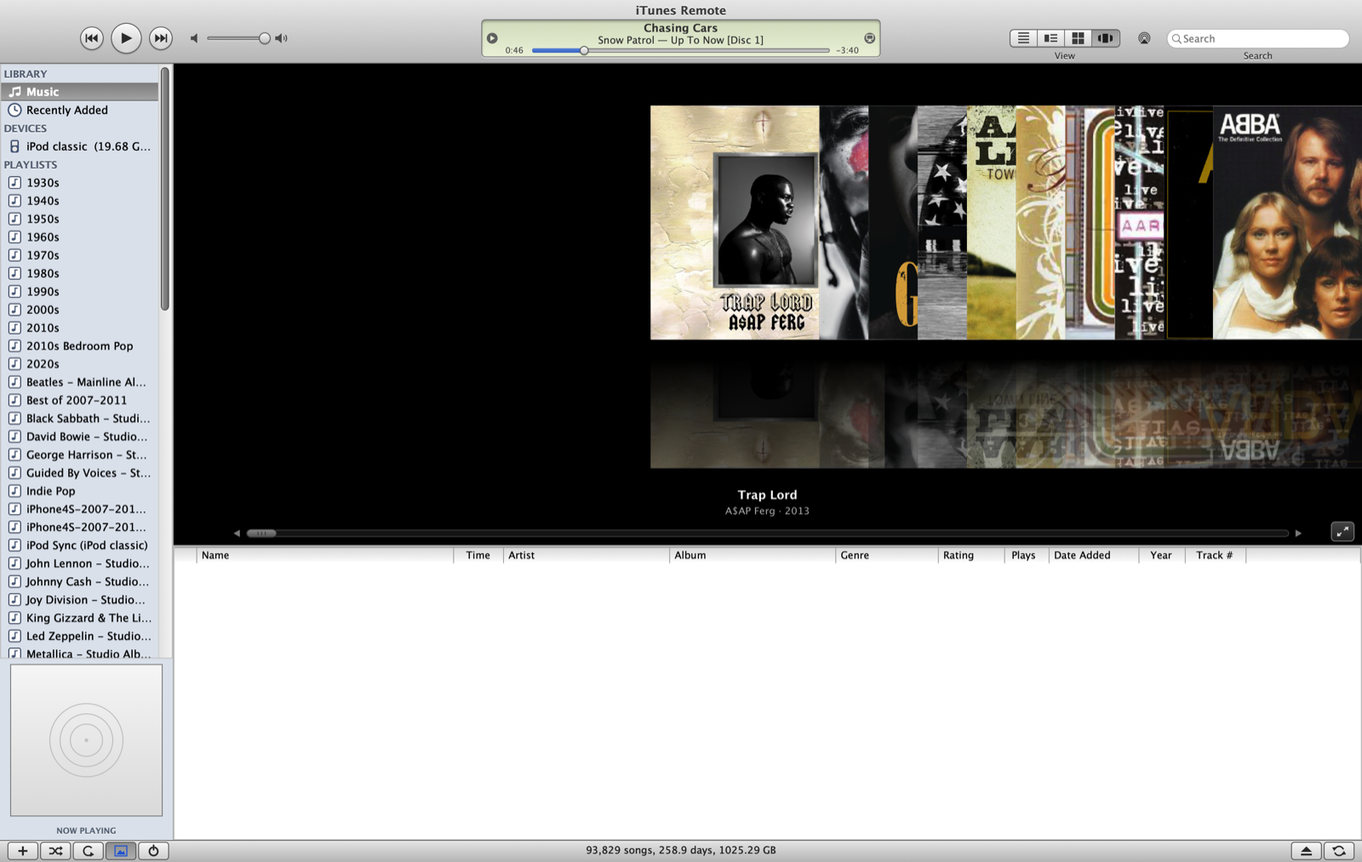
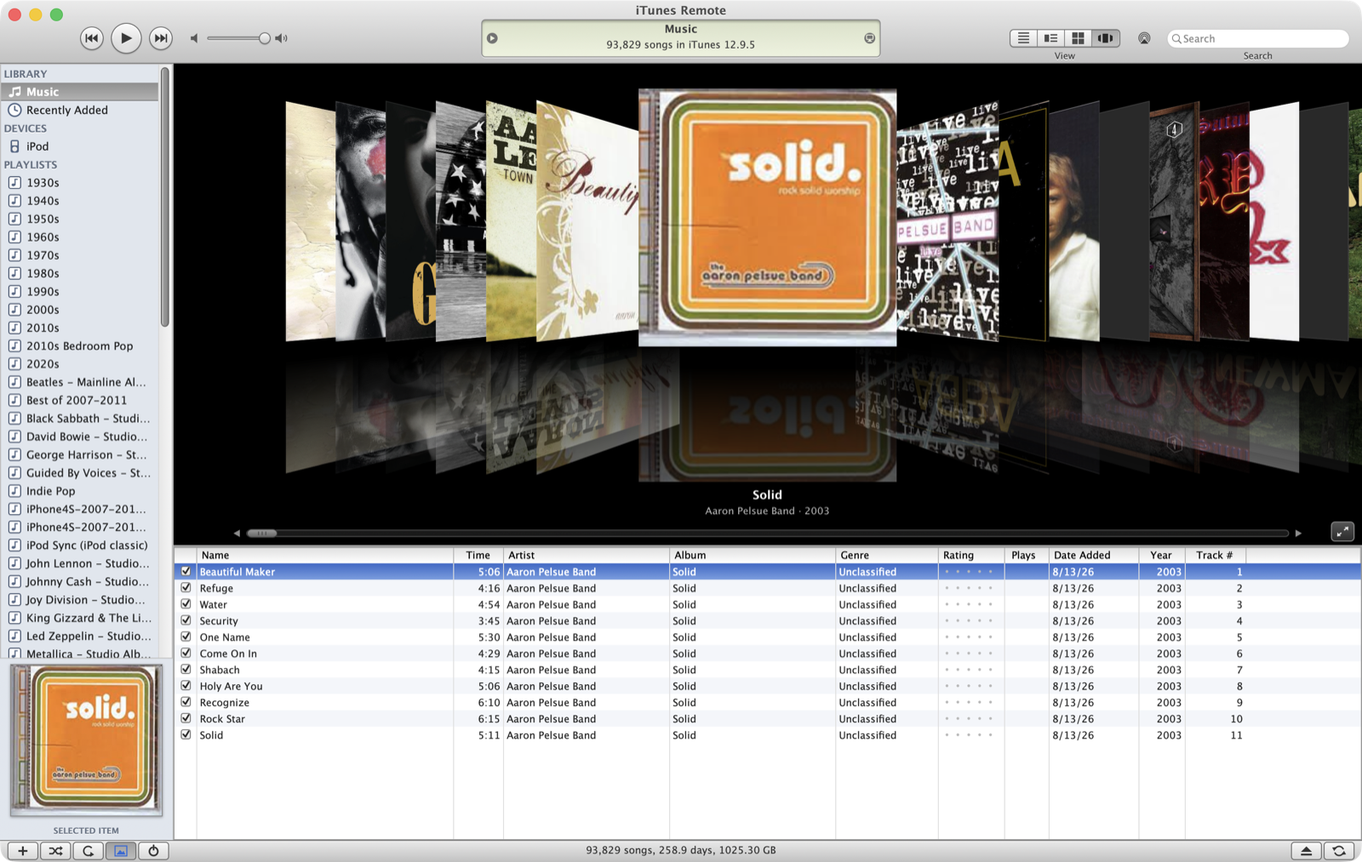
iTunes Remote: better screenshots, build cost, and a technical write-up
New Cover Flow and Grid shots (the old Cover Flow one caught the view
mid-scroll with an empty track list), plus the mini player. Adds what
the project cost to build — models, tokens per model and wall clock —
and a companion page on how it actually works.

diff --git a/itunes-remote-internals.html b/itunes-remote-internals.html
@@ -1,0 +1,221 @@
+<!DOCTYPE html>
+<html lang="en">
+<head>
+    <meta charset="UTF-8">
+    <meta name="viewport" content="width=device-width, initial-scale=1.0">
+    <meta name="referrer" content="strict-origin-when-cross-origin">
+    <title>iTunes Remote Internals — Steven Bleifer</title>
+    <meta name="description" content="How iTunes Remote actually works: one Apple Events lock, a 163 MB XML library with a write journal, an unreadable sync selection, and iTunes' real sort rules.">
+    <meta name="theme-color" content="#f3ead4">
+    <link rel="stylesheet" href="style.css">
+</head>
+<body>
+
+<header class="topbar">
+    <div class="topbar-inner">
+        <a href="index.html" class="brand">Steven Bleifer</a>
+        <button class="nav-toggle" aria-label="Menu" onclick="document.getElementById('site-nav').classList.toggle('open')">☰</button>
+        <nav class="nav" id="site-nav">
+            <a href="index.html">Home</a>
+            <a href="resume.html">Resume</a>
+            <a href="activity.html">Library</a>
+            <a href="claude-code.html">Projects</a>
+            <a href="vinyl.html">Vinyl</a>
+            <a href="displays.html">Displays</a>
+            <a href="itunes-remote.html" class="active">iTunes</a>
+            <a href="contact.html">Contact</a>
+            <a href="study/">Study</a>
+            <a href="pomodoro.html">Pomodoro</a>
+        </nav>
+    </div>
+</header>
+
+<main>
+    <div class="container">
+
+        <section class="hero">
+            <p class="eyebrow"><a href="itunes-remote.html">← iTunes Remote</a></p>
+            <h1>How it works.</h1>
+            <p class="lead">The technical version. Roughly 13,800 lines across a dependency-free Python daemon, 26 AppleScripts and a native AppKit client — all of it arranged around one hard constraint: there is exactly one way to talk to iTunes, it is slow, and only one thing can use it at a time.</p>
+            <div class="pill-row">
+                <span class="pill">4,011 lines Python</span>
+                <span class="pill">9,770 lines Swift</span>
+                <span class="pill">26 AppleScripts</span>
+                <span class="pill">No dependencies</span>
+            </div>
+        </section>
+
+        <section class="section">
+            <div class="section-header">
+                <h2>The one bottleneck everything else is shaped around</h2>
+            </div>
+            <p>iTunes 12.9.5 has no API. The only supported way in is Apple Events, which in practice means spawning <code>osascript</code> on a 2012 MacBook Pro. A trivial call — "what is playing?" — costs a few hundred milliseconds. A call that touches 25,000 playlist entries costs minutes.</p>
+            <p>Worse, Apple Events into a single app are not usefully concurrent. Two scripts in flight at once produce timeouts and, occasionally, half-applied writes. So every script in the daemon runs behind one lock:</p>
+<pre><i># daemon/itunes_remote/applescript.py</i>
+RS = "\x1e"   <i># record separator</i>
+US = "\x1f"   <i># field separator</i>
+
+guard = self.lock if serialize else _NoLock()</pre>
+            <p>That single lock is the most important line in the project, and nearly every performance bug traces back to it. It is why an eject that holds the lock for 60 seconds makes the whole client look frozen — not deadlocked, just queued. Sampling the client's main thread during one of those "freezes" showed it 97% idle. The fix was never in the client.</p>
+            <div class="callout warn">
+                <span class="lbl">Consequence</span>
+                <p>Any feature that polls iTunes on a timer is a tax on every other feature. A background sync-watcher I added at an 8-second interval, running for up to four hours after a sync, turned out to be a large part of why ejecting the iPod started failing with "in use by another application." Polling is never free when there is one lock.</p>
+            </div>
+        </section>
+
+        <section class="section">
+            <div class="section-header">
+                <h2>Scripts return text, not JSON</h2>
+            </div>
+            <p>AppleScript has no JSON. It also has a minefield of reserved words — <code>lines</code>, <code>kind</code>, <code>missing</code>, <code>removed</code> and <code>st</code> all blow up as variable names in ways the error message does not explain. And string-building a script with a track title in it is an injection waiting to happen when your library contains titles with quotes, backslashes and newlines.</p>
+            <p>So scripts are files, they take input through <code>on run argv</code>, and they return columnar text delimited by ASCII 30 and 31 — two characters that cannot occur in an iTunes tag. The daemon splits on them:</p>
+<pre>columns = out.split("\x1e")
+names, artists, albums, times = [c.split("\x1f") for c in columns[:4]]</pre>
+            <p>Columnar rather than row-wise on purpose: one <code>get</code> of every name, then one of every artist, is dramatically faster in AppleScript than 24,000 individual property reads. Reading the iPod's contents went from minutes to seconds on that change alone.</p>
+        </section>
+
+        <section class="section">
+            <div class="section-header">
+                <h2>Reading a 163 MB library without asking iTunes</h2>
+            </div>
+            <p>Asking iTunes for the library over Apple Events is hopeless at this size. The daemon instead parses <code>iTunes Music Library.xml</code> directly — 163 MB, 100,648 entries, 93,829 of them music tracks. That takes about a minute — 65 s on a warm run, 117 s on a cold one.</p>
+            <p>Two consequences fall out of that number. First, the parse happens in a background thread and the old library object stays live and readable until the new one is complete, then is swapped in atomically — an early bug had the library briefly vanish for concurrent readers mid-reload. Second, a minute-plus is far too long to wait after every edit, and iTunes rewrites the XML on its own schedule anyway.</p>
+            <p>So writes are journaled. A change goes to iTunes through AppleScript <em>and</em> is patched into the in-memory library immediately, with a timestamped journal entry. When a fresh parse lands, journal entries newer than the XML's own write date are replayed on top and the rest discarded:</p>
+<pre>self._journal.append((now, pid, dict(fields)))
+<i># …after a reload:</i>
+self._journal = [j for j in self._journal if j[0] &gt; new.xml_date]</pre>
+            <p>The rule throughout is that iTunes owns the data. Nothing writes to the library files on disk; every mutation goes through iTunes and the journal only mirrors what iTunes was already told.</p>
+        </section>
+
+        <section class="section">
+            <div class="section-header">
+                <h2>The selection nothing can read</h2>
+            </div>
+            <p>The hardest problem in the project has no clean solution. iTunes' iPod sync selection — which playlists, artists, albums and genres are ticked on the device pane — is stored in the binary <code>.itl</code> file. It is not exposed to AppleScript. And iTunes 12 exposes <strong>zero</strong> accessibility elements, even with <code>AXEnhancedUserInterface</code> forced on, so it cannot be read off the screen either.</p>
+            <p>Three options: guess, drive the UI, or keep your own. Guessing is wrong by construction. Driving the UI was ruled out deliberately — it breaks on any layout change and can click the wrong thing, and the one time that matters is the time it wipes a device.</p>
+            <p>So the app keeps its own selection and projects it onto a single real playlist that iTunes syncs. Four independent lists — playlists, artists, albums, genres — unioned, exactly as iTunes' own Music pane behaves. Rebuilding that playlist is chunked at 50 tracks per <code>osascript</code> run so a failure is bounded and progress is reportable.</p>
+            <div class="callout warn">
+                <span class="lbl">The near miss</span>
+                <p>Before the first real sync, an inventory of what was already on the iPod versus what the plan covered showed the plan would have removed about 70% of the device. The selection had been reconstructed from the wrong assumption about how iTunes unions ticked items. Taking the inventory cost ten minutes; not taking it would have cost a 160 GB rebuild over USB 2.</p>
+            </div>
+        </section>
+
+        <section class="section">
+            <div class="section-header">
+                <h2>Sorting exactly like iTunes</h2>
+            </div>
+            <p>"Alphabetical" is doing a lot of work in that sentence. iTunes ignores a leading article, ignores quotes and apostrophes entirely, folds accents, and sorts anything starting with a digit <em>after</em> Z rather than before A. Getting that last part right without a custom comparator is a small trick: map digit-leading strings behind a private-use codepoint, which sorts above every letter.</p>
+<pre><i># daemon/itunes_remote/library.py</i>
+_ARTICLES   = ("the ", "a ", "an ")
+_QUOTES     = "\"'‘’“”«»"
+_DIGITS_LAST = "\uf8ff"   <i># private use area, sorts after Z</i>
+
+def sort_form(text, override=None):
+    value = fold((override or text or "").strip())
+    value = _plain("".join(c for c in value if c not in _QUOTES))
+    for article in _ARTICLES:
+        if value.startswith(article) and len(value) &gt; len(article):
+            value = _plain(value[len(article):]); break
+    if value and value[0].isdigit():
+        return _DIGITS_LAST + value
+    return value</pre>
+            <p><code>_plain</code> does NFKD normalisation and drops combining marks, so <em>Motörhead</em> sorts as <em>Motorhead</em>. Sort overrides matter too: iTunes stores a per-track "sort artist" that wins over the display name, which is how <em>The Beatles</em> files under B and a soundtrack credited to twelve people files under the album artist.</p>
+        </section>
+
+        <section class="section">
+            <div class="section-header">
+                <h2>Three numbers, all of them true</h2>
+            </div>
+            <p>The same library reports three different song counts, and the interesting part is that none of them is a bug.</p>
+            <div class="table-wrap">
+            <table class="simple-table">
+                <thead><tr><th>Count</th><th>What it is</th></tr></thead>
+                <tbody>
+                <tr><td>24,153</td><td>Files actually on the iPod. This is the one to trust.</td></tr>
+                <tr><td>24,184</td><td>iTunes' own heading, which folds byte-identical files into one.</td></tr>
+                <tr><td>24,310</td><td>Library entries the plan covers — duplicates counted separately.</td></tr>
+                </tbody>
+            </table>
+            </div>
+            <p>The gap is re-downloaded purchases that exist twice in the library as separate entries pointing at identical audio, plus two files iTunes refuses to copy at all. Any "fix" that made the numbers agree would have been a lie about one of the three.</p>
+        </section>
+
+        <section class="section">
+            <div class="section-header">
+                <h2>Album art, and why the grid was slow</h2>
+            </div>
+            <p>Artwork has two very different costs. A cover already in memory, on disk, or embedded in the file itself comes back in about 30 ms. A cover that only iTunes knows about requires an AppleScript export — which takes the one lock, behind everything else.</p>
+            <p>The grid was asking for both kinds on the same connection pool as the player poll, so a handful of slow exports starved the entire client. The fix has three parts:</p>
+            <ul>
+                <li>A <code>?quick=1</code> request answers only from memory, disk or the file, and returns <strong>202 Accepted</strong> for anything that would need iTunes.</li>
+                <li>A 202 queues the cover on a priority deque that the background warmer drains first, instead of waiting for an idle moment.</li>
+                <li>The client fetches covers on a separate <code>URLSession</code> with 12 connections, so artwork can never block transport commands.</li>
+            </ul>
+            <p>Fourteen visible albums now resolve in 0.77 s total, and Cover Flow fills immediately instead of showing placeholder discs.</p>
+        </section>
+
+        <section class="section">
+            <div class="section-header">
+                <h2>Playing on the other Mac</h2>
+            </div>
+            <p>"Play on This Mac" does not use AirPlay, because iTunes 12.9.5 cannot AirPlay to a modern Mac at all — it fails with error −15022. Instead the daemon serves the file over HTTP with range support and the client decodes it locally with AVFoundation.</p>
+            <p>That creates a subtler problem. <code>play &lt;track&gt;</code> gives iTunes a one-item queue, so at the end of a song iTunes simply stops rather than advancing. There is no event for "track finished" — a deliberate stop and a finished track both report as <code>stopped</code>. The only available signal is where the playhead was on the previous poll:</p>
+<pre>guard mode == .remote, new.state == "stopped", new.track == nil,
+      let previous = lastRemote, previous.playing, previous.duration &gt; 0
+else { return false }
+return previous.position &gt;= previous.duration - 5</pre>
+            <p>Because the client steps through its own list in both modes, shuffle and repeat belong to the app rather than to iTunes. They used to be read back from iTunes, which meant they silently did nothing whenever playback was local.</p>
+        </section>
+
+        <section class="section">
+            <div class="section-header">
+                <h2>Ejecting</h2>
+            </div>
+            <p>iTunes cannot unmount an iPod while anything holds a file open on the volume, and the daemon's own device polling counted. An eject now sets a quiet window that every reader respects before the script runs:</p>
+<pre>DEVICE_QUIET_SECONDS = 30
+POD_CACHE_SECONDS = 15</pre>
+            <p>The client pauses both of its device timers over the same window and resumes them if the eject fails. A failure also reads back whatever modal dialog iTunes is showing and reports it, rather than returning a bare 502 — a headless machine raises dialogs at nobody, and that alone explained a whole class of mysterious hangs.</p>
+            <p>One holder is not ours and cannot be fixed from here: <code>diskutil</code> reports unmounts "dissented by SystemUIServer", the menu bar agent.</p>
+        </section>
+
+        <section class="section">
+            <div class="section-header">
+                <h2>Smaller things that mattered</h2>
+            </div>
+            <ul>
+                <li><strong>Version-keyed client cache.</strong> Reads are cached against the library's version counter and dropped on any write, so a stale list cannot outlive the change that invalidated it.</li>
+                <li><strong>gzip above 16 KB.</strong> JSON responses compress at level 1 only when they clear 16 KB and the client asked for it. Below that the CPU on a 2012 machine costs more than the bytes save.</li>
+                <li><strong>Recently Added.</strong> Cutting to the newest 600 albums has to happen <em>before</em> the browser filters, not after — doing it after listed all 2,904 artists and then picked albums that contained no tracks.</li>
+                <li><strong>A nullable playlist ID.</strong> A freshly created playlist has no persistent ID until iTunes rewrites the XML. Typing that field as non-optional broke playlist creation <em>and</em> every subsequent playlist decode, which is why drag-and-drop onto playlists also looked dead.</li>
+                <li><strong>The look.</strong> macOS Mojave removed subpixel antialiasing, so text in the client is slightly softer than iTunes 10 was on the same hardware. That one is not fixable.</li>
+            </ul>
+        </section>
+
+        <section class="section">
+            <div class="section-header">
+                <h2>What it cost to build</h2>
+            </div>
+            <p>The whole thing was written with <a href="claude-code.html">Claude Code</a> across two days: first commit at 10:27 pm on 2 September 2026, most recent at 5:36 pm on 3 September — <strong>about 19 hours of wall clock</strong> over 48 commits, inside session transcripts spanning 20 hours 17 minutes.</p>
+            <p>Four models did the work, across 1,079 API responses and 1,254 tool calls (994 of them shell commands). Token totals below count each response once and include cache reads, which dominate — a long agentic session re-reads a large cached context on every single turn:</p>
+            <div class="table-wrap">
+            <table class="simple-table">
+                <thead><tr><th>Model</th><th>Responses</th><th>Cache read</th><th>Cache write</th><th>Output</th><th>Total</th></tr></thead>
+                <tbody>
+                <tr><td>Opus 5</td><td>739</td><td>293,042,154</td><td>5,228,661</td><td>807,303</td><td>299,079,596</td></tr>
+                <tr><td>Fable 5.1</td><td>195</td><td>72,548,919</td><td>3,517,817</td><td>546,420</td><td>76,664,523</td></tr>
+                <tr><td>Opus 4.8</td><td>78</td><td>40,205,825</td><td>2,080,565</td><td>100,132</td><td>42,386,678</td></tr>
+                <tr><td>Opus 4.7</td><td>57</td><td>6,621,492</td><td>312,019</td><td>45,538</td><td>6,979,186</td></tr>
+                <tr><td><strong>Total</strong></td><td><strong>1,079</strong></td><td><strong>412,418,390</strong></td><td><strong>11,139,062</strong></td><td><strong>1,499,393</strong></td><td><strong>425,109,983</strong></td></tr>
+                </tbody>
+            </table>
+            </div>
+            <p>So: <strong>425 million tokens</strong> to produce 13,781 lines that survived. The ratio is the honest part of the story — about 1.5 million tokens of actual output, and 280× that in re-read context. Most of the cost was not writing code. It was reading a 163 MB XML file's worth of consequences, running things on the old machine to see what iTunes really did, and being wrong about counts three times before deriving the rule from the real window.</p>
+        </section>
+
+        <p class="muted"><a href="itunes-remote.html">← Back to iTunes Remote</a> · <a href="claude-code.html">All projects</a></p>
+
+    </div>
+</main>
+
+</body>
+</html>

diff --git a/itunes-remote.html b/itunes-remote.html
@@ -50,12 +50,22 @@
             <figcaption>Cover Flow, the source list, the green display. Everything here is read from iTunes on the other machine.</figcaption>
         </figure>
 
+        <figure class="shot">
+            <img src="images/itunes-remote/grid.png" alt="The Grid view: album covers laid out in rows on white, with title and artist under each." width="1600" height="1013" loading="lazy">
+            <figcaption>Grid. Nine thousand albums, drawn a screenful at a time — covers are fetched lazily and never as views.</figcaption>
+        </figure>
+
+        <figure class="shot">
+            <img src="images/itunes-remote/mini-player.png" alt="The mini player: a narrow window with transport buttons, volume slider, AirPlay icon and the green display showing This Love by Maroon 5." width="1040" height="144" loading="lazy">
+            <figcaption>The mini player, the same size iTunes 10&#39;s was. Media keys work here too.</figcaption>
+        </figure>
+
         <section class="section">
             <div class="section-header">
                 <h2>Two halves</h2>
             </div>
-            <p>The <strong>daemon</strong> is Python with nothing outside the standard library. It parses the iTunes XML library into memory — 100,648 entries in about 23 seconds — and serves it as JSON over HTTP behind a bearer token. Reads come from that in-memory copy and answer in milliseconds. Writes go through AppleScript to iTunes itself; nothing ever touches the library files on disk.</p>
-            <p>The <strong>client</strong> is a native AppKit app, about 6,000 lines of Swift, every control drawn by hand: the pinstripe chrome, the pill buttons, the recessed green display with its scrubber, the column browser, all four view modes, a mini player. There is no interface builder file and no framework.</p>
+            <p>The <strong>daemon</strong> is Python with nothing outside the standard library. It parses the iTunes XML library into memory — a 163 MB file, 100,648 entries, in about a minute — and serves it as JSON over HTTP behind a bearer token. Reads come from that in-memory copy and answer in milliseconds. Writes go through AppleScript to iTunes itself; nothing ever touches the library files on disk.</p>
+            <p>The <strong>client</strong> is a native AppKit app, about 9,800 lines of Swift, every control drawn by hand: the pinstripe chrome, the pill buttons, the recessed green display with its scrubber, the column browser, all four view modes, a mini player. There is no interface builder file and no framework.</p>
             <div class="callout">
                 <span class="lbl">Why it is worth being careful about reads</span>
                 <p>Every AppleScript call to iTunes takes the same single Apple Events lock. One slow call blocks every other request behind it. Most of this project's performance work was about never needing that lock: keep the library in memory, cache album art on disk, and read embedded artwork straight out of the audio files rather than asking iTunes to export it.</p>
@@ -149,7 +159,21 @@
                 <h2>Built with Claude Code</h2>
             </div>
             <p>This was written with <a href="claude-code.html">Claude Code</a>, and the shape of the work is what I'd expect from a good collaborator: the hard parts were not writing Swift, they were finding out what iTunes actually does. Counting artists three different wrong ways before deriving the rule from the real window. Taking an inventory before a destructive change and finding out the change would have destroyed 70% of my iPod. Proving screen-clicking worked and then agreeing not to use it.</p>
-            <p>The source is on <a href="https://github.com/stevenbleifer-beep">GitHub</a> in a private repository.</p>
+            <p>It took <strong>about 19 hours of wall clock across two days</strong> — first commit at 10:27 pm on 2 September 2026, most recent at 5:36 pm on the 3rd — over 48 commits and 1,254 tool calls. Four models did the work:</p>
+            <div class="table-wrap">
+            <table class="simple-table">
+                <thead><tr><th>Model</th><th>Responses</th><th>Output tokens</th><th>Total tokens</th></tr></thead>
+                <tbody>
+                <tr><td>Opus 5</td><td>739</td><td>807,303</td><td>299,079,596</td></tr>
+                <tr><td>Fable 5.1</td><td>195</td><td>546,420</td><td>76,664,523</td></tr>
+                <tr><td>Opus 4.8</td><td>78</td><td>100,132</td><td>42,386,678</td></tr>
+                <tr><td>Opus 4.7</td><td>57</td><td>45,538</td><td>6,979,186</td></tr>
+                <tr><td><strong>Total</strong></td><td><strong>1,079</strong></td><td><strong>1,499,393</strong></td><td><strong>425,109,983</strong></td></tr>
+                </tbody>
+            </table>
+            </div>
+            <p>425 million tokens to produce 13,781 lines that survived. Almost all of that is cached context re-read on every turn — the actual writing is the 1.5 million output tokens. The other 280× is reading, running things on the old machine, and being wrong in public until the rule fell out.</p>
+            <p>There's a <a href="itunes-remote-internals.html">technical write-up of how it works</a> — the Apple Events lock, the 163 MB XML library and its write journal, the unreadable sync selection, and iTunes' real sort rules. The source is on <a href="https://github.com/stevenbleifer-beep">GitHub</a> in a private repository.</p>
         </section>
 
         <p class="muted"><a href="claude-code.html">← Back to projects</a></p>

diff --git a/claude-code.html b/claude-code.html
@@ -113,7 +113,7 @@
                 <h2>A remote control for iTunes</h2>
             </div>
             <p>The library lives on a 2012 MacBook Pro that runs iTunes 12.9.5 and nothing else, headless in another room. So it got an HTTP API and a native Mac client drawn to look like iTunes 10 — the column browser, Cover Flow, the green display, the lot.</p>
-            <p>The hard part was the iPod. iTunes syncs from a selection of ticked playlists and artists that nothing outside iTunes can read: no AppleScript terms, an accessibility tree with zero elements, and an undocumented binary database. The app keeps its own selection instead and writes it into a playlist the iPod syncs. Before switching anything over I inventoried the device, which is how I found that the playlists I had ticked accounted for only 30% of what was on it — the rest came from individually ticked artists, and the obvious approach would have wiped it. <a href="itunes-remote.html">Read about the iTunes remote →</a></p>
+            <p>The hard part was the iPod. iTunes syncs from a selection of ticked playlists and artists that nothing outside iTunes can read: no AppleScript terms, an accessibility tree with zero elements, and an undocumented binary database. The app keeps its own selection instead and writes it into a playlist the iPod syncs. Before switching anything over I inventoried the device, which is how I found that the playlists I had ticked accounted for only 30% of what was on it — the rest came from individually ticked artists, and the obvious approach would have wiped it. <a href="itunes-remote.html">Read about the iTunes remote →</a> <a href="itunes-remote-internals.html">How it works →</a></p>
         </section>
 
         <section class="section">

diff --git a/index.html b/index.html
@@ -132,6 +132,7 @@
         { url: 'vinyl-internals.html', title: 'Vinyl internals', keywords: 'vinyl internals technical rsync atomic rename checksum sha256 mp4 parser bash shell quoting race condition code' },
         { url: 'vinyl.html', title: 'Vinyl', keywords: 'vinyl records turntable ripping rip alac apple lossless itunes music library audio project automation backup ipod classic streaming claude code offline' },
         { url: 'itunes-remote.html', title: 'iTunes Remote', keywords: 'itunes remote ipod classic sync playlist applescript macbook pro headless daemon python appkit swift cover flow album art library xml itunes 10 aqua column browser airplay' },
+        { url: 'itunes-remote-internals.html', title: 'iTunes Remote Internals', keywords: 'itunes remote internals technical apple events lock osascript applescript xml journal sort rules artwork cache gzip eject cover flow grid tokens models claude code how it works' },
         { url: 'displays.html', title: 'Displays', keywords: 'displays studio display speakers stereo aggregate device coreaudio latency delay echo brightness true tone night shift menu bar app volume keys mac audio midi setup thunderbolt' }
     ];
     window.siteSearch = function() {
